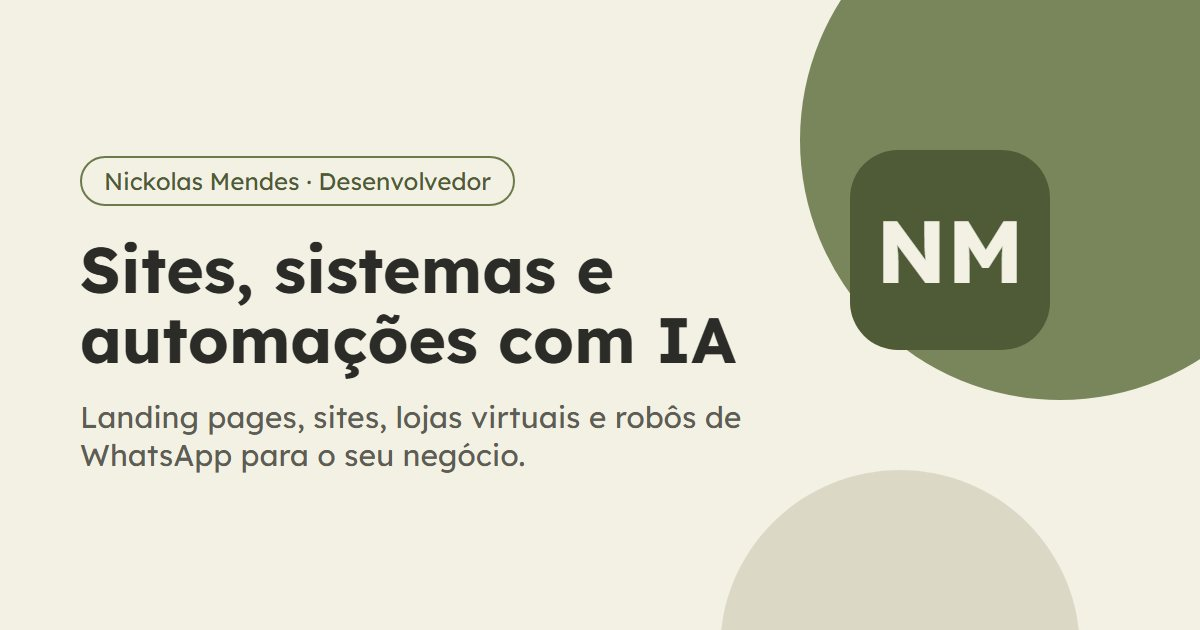
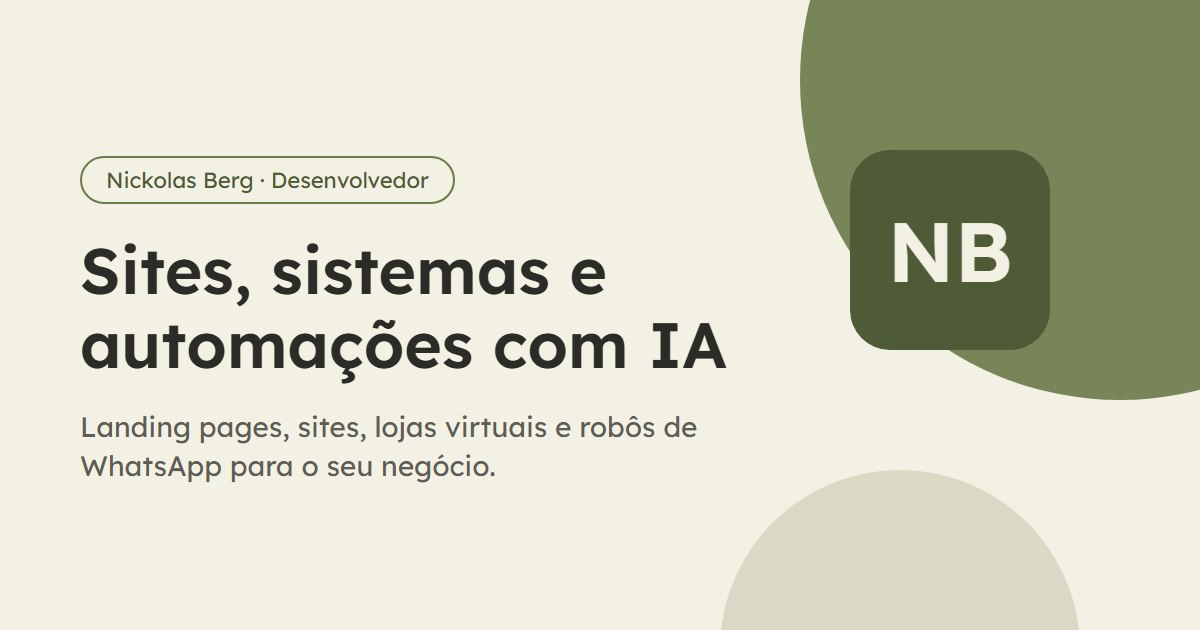
Nome profissional Nickolas Berg (título, rodapé, ícone e prévia de link)

diff --git a/public/index.html b/public/index.html
@@ -3,7 +3,7 @@
 <head>
   <meta charset="utf-8">
   <meta name="viewport" content="width=device-width, initial-scale=1">
-  <title>Nickolas Mendes | Sites e sistemas para o seu negócio</title>
+  <title>Nickolas Berg | Sites e sistemas para o seu negócio</title>
   <meta name="description" content="Desenvolvedor que cria sites, landing pages, sistemas e automações sob medida para pequenos negócios e profissionais autônomos.">
   <meta name="google-site-verification" content="1fQed0s_VYl3PBwPAfYlMOjfjMxauWZHzg_ELLhV9YY">
   <link rel="canonical" href="https://projetos-desenvolvimento.nickolas-196.workers.dev/">
@@ -11,7 +11,7 @@
   <meta property="og:type" content="website">
   <meta property="og:locale" content="pt_BR">
   <meta property="og:url" content="https://projetos-desenvolvimento.nickolas-196.workers.dev/">
-  <meta property="og:title" content="Nickolas Mendes | Sites, sistemas e automações com IA">
+  <meta property="og:title" content="Nickolas Berg | Sites, sistemas e automações com IA">
   <meta property="og:description" content="Landing pages, sites, lojas virtuais e robôs de WhatsApp para o seu negócio. Veja os projetos e fale comigo.">
   <meta property="og:image" content="https://projetos-desenvolvimento.nickolas-196.workers.dev/img/og.jpg">
   <meta property="og:image:width" content="1200">
@@ -25,7 +25,7 @@
 <body>
   <header class="topo">
     <div class="container topo__linha">
-      <a class="marca" href="#">Nickolas Mendes<span>Desenvolvedor</span></a>
+      <a class="marca" href="#">Nickolas Berg<span>Desenvolvedor</span></a>
       <nav class="menu">
         <a href="#servicos">Serviços</a>
         <a href="#projetos">Projetos</a>
@@ -132,7 +132,7 @@
 
     <section id="sobre" class="secao">
       <div class="container sobre">
-        <img class="sobre__foto" src="img/nickolas.jpg" alt="Foto de Nickolas Mendes" width="480" height="600" loading="lazy">
+        <img class="sobre__foto" src="img/nickolas.jpg" alt="Foto de Nickolas Berg" width="480" height="600" loading="lazy">
         <div class="sobre__texto">
           <h2>Prazer, sou o Nickolas</h2>
           <p>Sou desenvolvedor de software, formado em Análise e Desenvolvimento de Sistemas, e trabalho com tecnologia desde 2023. Já construí sistemas usados por milhares de pessoas todos os dias, com integrações de pagamento, inteligência artificial e automações que rodam sozinhas.</p>
@@ -169,9 +169,10 @@
 
   <footer class="rodape">
     <div class="container rodape__linha">
-      <span>© 2026 Nickolas Mendes</span>
+      <span>© 2026 Nickolas Berg</span>
       <a href="mailto:nmcamilistrab@gmail.com">nmcamilistrab@gmail.com</a>
       <a href="https://www.linkedin.com/in/nickolas-mendes" target="_blank" rel="noopener">LinkedIn</a>
+      <a href="https://nickolasberg.pages.dev">Todos os links</a>
     </div>
   </footer>
 </body>

diff --git a/og/og.html b/og/og.html
@@ -1,0 +1,24 @@
+<!doctype html>
+<html><head><meta charset="utf-8">
+<link href="https://fonts.googleapis.com/css2?family=Lexend:wght@400;600&display=block" rel="stylesheet">
+<style>
+  * { margin: 0; padding: 0; box-sizing: border-box; }
+  html, body { width: 1200px; height: 630px; overflow: hidden; }
+  body { background: #f3f0e4; font-family: "Lexend", sans-serif; position: relative; color: #2b2b28; }
+  .c1 { position: absolute; width: 640px; height: 640px; border-radius: 50%; background: #788559; left: 800px; top: -240px; }
+  .c2 { position: absolute; width: 360px; height: 360px; border-radius: 50%; background: #dcd8c6; left: 720px; top: 470px; }
+  .box { position: absolute; left: 850px; top: 150px; width: 200px; height: 200px; border-radius: 40px; background: #4f5b36; color: #f3f0e4; font-weight: 600; font-size: 84px; display: flex; align-items: center; justify-content: center; }
+  .txt { position: absolute; left: 80px; top: 156px; width: 720px; }
+  .pill { display: inline-block; border: 2px solid #6b7a4b; border-radius: 999px; padding: 8px 24px; font-size: 22px; color: #4f5b36; }
+  h1 { margin-top: 30px; font-size: 64px; line-height: 1.15; font-weight: 600; }
+  p { margin-top: 26px; font-size: 28px; line-height: 1.4; color: #5d5d55; }
+</style></head>
+<body>
+  <div class="c1"></div><div class="c2"></div>
+  <div class="box">NB</div>
+  <div class="txt">
+    <span class="pill">Nickolas Berg · Desenvolvedor</span>
+    <h1>Sites, sistemas e automações com IA</h1>
+    <p>Landing pages, sites, lojas virtuais e robôs de WhatsApp para o seu negócio.</p>
+  </div>
+</body></html>

diff --git a/public/demos/nutricionista/index.html b/public/demos/nutricionista/index.html
@@ -106,7 +106,7 @@
     </div>
   </section>
 
-  <footer>Marina Alves · Nutricionista · página de demonstração criada por <a href="../../">Nickolas Mendes</a> · Foto: <a href="https://unsplash.com" target="_blank" rel="noopener">Unsplash</a></footer>
+  <footer>Marina Alves · Nutricionista · página de demonstração criada por <a href="../../">Nickolas Berg</a> · Foto: <a href="https://unsplash.com" target="_blank" rel="noopener">Unsplash</a></footer>
 
   <a class="whats" href="https://wa.me/5511910465371?text=Ol%C3%A1%2C%20vi%20a%20p%C3%A1gina%20de%20demonstra%C3%A7%C3%A3o%20da%20nutricionista" target="_blank" rel="noopener" aria-label="Falar no WhatsApp">
     <svg width="30" height="30" viewBox="0 0 24 24" fill="#fff" aria-hidden="true"><path d="M12 2a10 10 0 0 0-8.6 15.1L2 22l5-1.3A10 10 0 1 0 12 2Zm0 18.2c-1.5 0-3-.4-4.3-1.2l-.3-.2-3 .8.8-2.9-.2-.3A8.2 8.2 0 1 1 12 20.2Zm4.5-6.1c-.2-.1-1.5-.7-1.7-.8-.2-.1-.4-.1-.6.1l-.8 1c-.1.2-.3.2-.5.1a6.7 6.7 0 0 1-3.3-2.9c-.3-.4.2-.4.7-1.4.1-.2 0-.3 0-.4l-.8-1.8c-.2-.5-.4-.4-.6-.4h-.5a1 1 0 0 0-.7.3 3 3 0 0 0-.9 2.2 5.2 5.2 0 0 0 1.1 2.8 11.9 11.9 0 0 0 4.6 4c1.7.7 2.4.8 3.2.7.5-.1 1.5-.6 1.7-1.2.2-.6.2-1.1.2-1.2-.1-.1-.3-.2-.5-.3Z"/></svg>

diff --git a/public/demos/confeitaria/cardapio.html b/public/demos/confeitaria/cardapio.html
@@ -58,6 +58,6 @@
     </section>
   </main>
 
-  <footer class="rodape">Doce Lar Confeitaria · página de demonstração criada por <a href="../../">Nickolas Mendes</a> · Fotos: <a href="https://unsplash.com" target="_blank" rel="noopener">Unsplash</a></footer>
+  <footer class="rodape">Doce Lar Confeitaria · página de demonstração criada por <a href="../../">Nickolas Berg</a> · Fotos: <a href="https://unsplash.com" target="_blank" rel="noopener">Unsplash</a></footer>
 </body>
 </html>

diff --git a/public/demos/confeitaria/index.html b/public/demos/confeitaria/index.html
@@ -66,6 +66,6 @@
     </section>
   </main>
 
-  <footer class="rodape">Doce Lar Confeitaria · página de demonstração criada por <a href="../../">Nickolas Mendes</a> · Fotos: <a href="https://unsplash.com" target="_blank" rel="noopener">Unsplash</a></footer>
+  <footer class="rodape">Doce Lar Confeitaria · página de demonstração criada por <a href="../../">Nickolas Berg</a> · Fotos: <a href="https://unsplash.com" target="_blank" rel="noopener">Unsplash</a></footer>
 </body>
 </html>

diff --git a/public/404.html b/public/404.html
@@ -3,7 +3,7 @@
 <head>
   <meta charset="utf-8">
   <meta name="viewport" content="width=device-width, initial-scale=1">
-  <title>Página não encontrada | Nickolas Mendes</title>
+  <title>Página não encontrada | Nickolas Berg</title>
   <link rel="icon" href="/favicon.svg" type="image/svg+xml">
   <link rel="stylesheet" href="/style.css">
 </head>

diff --git a/public/demos/confeitaria/contato.html b/public/demos/confeitaria/contato.html
@@ -42,6 +42,6 @@
     </section>
   </main>
 
-  <footer class="rodape">Doce Lar Confeitaria · página de demonstração criada por <a href="../../">Nickolas Mendes</a></footer>
+  <footer class="rodape">Doce Lar Confeitaria · página de demonstração criada por <a href="../../">Nickolas Berg</a></footer>
 </body>
 </html>

diff --git a/README.md b/README.md
@@ -1,6 +1,6 @@
 # Portfólio freelance
 
-Site de portfólio do Nickolas Mendes: serviços, projetos e contato. HTML e CSS puros, sem build.
+Site de portfólio do Nickolas Berg (nome profissional de Nickolas Mendes): serviços, projetos e contato. HTML e CSS puros, sem build.
 
 - `public/`: o site (página principal, `img/` com prints e `demos/` com projetos demonstrativos)
 - Deploy: Cloudflare Workers (`wrangler.jsonc`), automático a cada push na `main`
